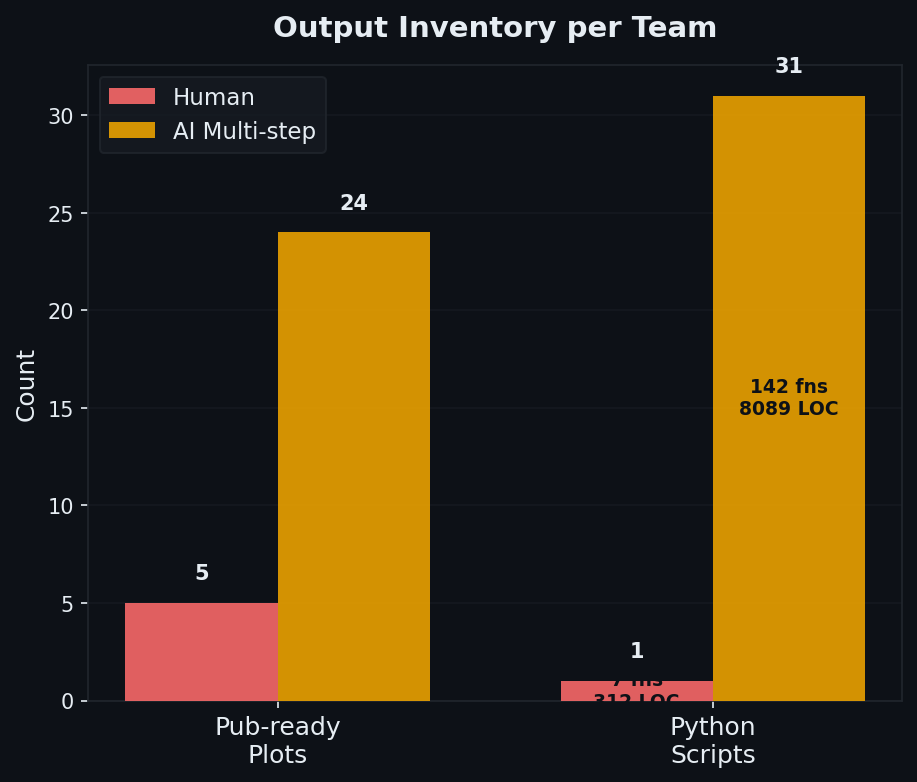
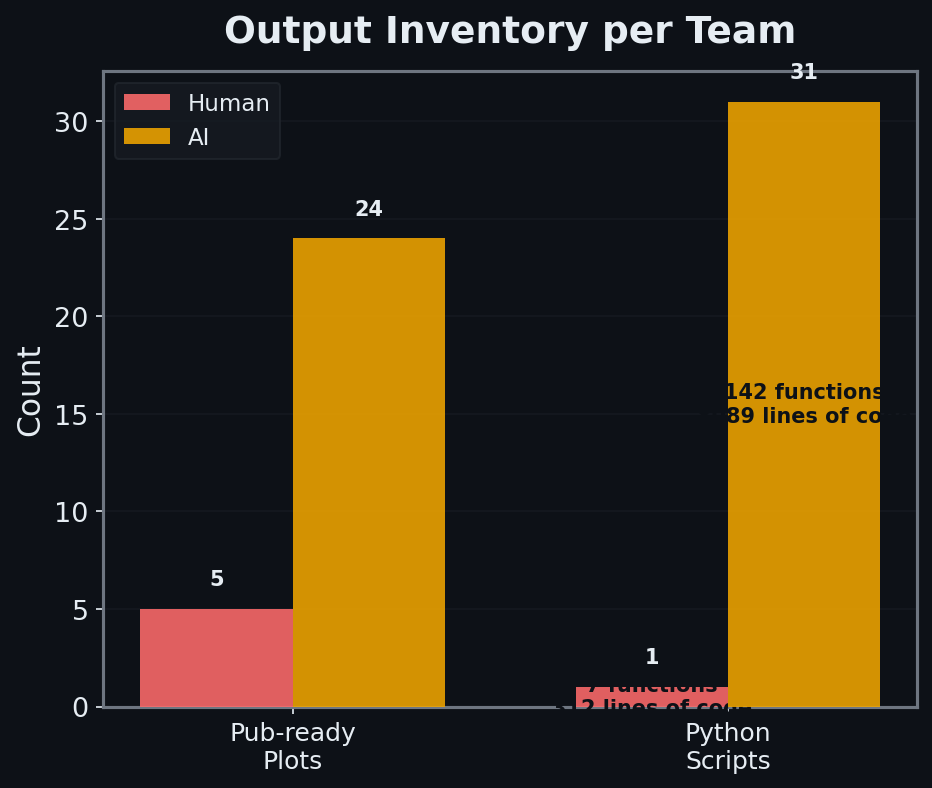
update

Changed region(s): [[0.0, 0.0, 0.9771, 0.9821], [0.8244, 0.0921, 1.0, 0.9207], [0.2137, 0.7059, 0.2443, 0.7673]]

diff --git a/comparison/compare copy.py b/comparison/compare copy.py
@@ -63,7 +63,7 @@ COLORS = {
 SHORT = {
     "Human":           "Human",
     "AI\nSingle-step": "AI Single-step",
-    "AI\nMulti-step":  "AI",
+    "AI\nMulti-step":  "AI Multi-step",
 }
 
 # ── Style ──────────────────────────────────────────────────────────────────────
@@ -75,8 +75,7 @@ MUTED = "#8B949E"
 plt.rcParams.update({
     "figure.facecolor": BG,
     "axes.facecolor":   BG,
-    "axes.edgecolor":   "#6E7681",
-    "axes.linewidth":   1.5,
+    "axes.edgecolor":   GRID,
     "axes.labelcolor":  TXT,
     "xtick.color":      TXT,
     "ytick.color":      TXT,
@@ -86,13 +85,12 @@ plt.rcParams.update({
     "legend.facecolor": "#161B22",
     "legend.edgecolor": GRID,
     "font.family":      "DejaVu Sans",
-    "font.size":        14,
-    "axes.titlesize":   18,
-    "axes.labelsize":   15,
+    "font.size":        11,
+    "axes.titlesize":   14,
+    "axes.labelsize":   12,
     "axes.titleweight": "bold",
-    "xtick.labelsize":  13,
-    "ytick.labelsize":  13,
-    "legend.fontsize":  13,
+    "xtick.labelsize":  10,
+    "ytick.labelsize":  10,
 })
 
 
@@ -219,31 +217,16 @@ MULTISTEP_KEY = "AI\nMulti-step"
 def collect_phase_data(multistep_dir: Path) -> dict:
     """Per-phase LOC and pub-ready plot counts for the multi-step team."""
     result = {}
-    phase_matched: set[Path] = set()
-
     for phase, scripts in PHASE_SCRIPTS.items():
         loc = sum(count_loc(multistep_dir / s)
                   for s in scripts if (multistep_dir / s).exists())
         phase_pngs = list(multistep_dir.glob(f"phase{phase}_*.png"))
         pub   = sum(1 for f in phase_pngs if classify_png(f.name) == "pub")
-        phase_matched.update(phase_pngs)
         result[phase] = {
             "loc":        loc,
             "pub_plots":  pub,
             "total_plots": len(phase_pngs),
         }
-
-    # Pick up pub-ready PNGs not matched by any phase{N}_*.png pattern
-    # (e.g. halo_viz subdirectory) and attribute to the last phase.
-    orphan_pngs = [f for f in multistep_dir.rglob("*.png")
-                   if f not in phase_matched]
-    orphan_pub   = sum(1 for f in orphan_pngs if classify_png(f.name) == "pub")
-    orphan_total = len(orphan_pngs)
-    if orphan_pub or orphan_total:
-        last = max(result)
-        result[last]["pub_plots"]   += orphan_pub
-        result[last]["total_plots"] += orphan_total
-
     return result
 
 
@@ -549,9 +532,9 @@ def fig_inventory(metrics: dict):
             ax.text(
                 x[1] + offsets[i],
                 vals[1] / 2,
-                f"{fn} functions\n{loc} lines of code",
+                f"{fn} fns\n{loc} LOC",
                 ha="center", va="center",
-                fontsize=10, color=BG, fontweight="bold",
+                fontsize=9, color=BG, fontweight="bold",
             )
 
     ax.set_xticks(x)
@@ -655,141 +638,80 @@ def fig_scope():
 
 def fig_code(metrics: dict, phase_data: dict):
     """
-    Top-left  (50% wide, 75% tall): inventory grouped bar — pub-ready plots and
-              Python scripts per active team, with a caption table underneath.
-    Top-right (50% wide, 75% tall): multi-step follow-up query convergence.
-    Bottom strip (25% tall): table on the left, disclaimer on the right —
-              both within the canvas so bbox_inches='tight' doesn't inflate size.
+    Left:  LOC + function count bar per active team.
+    Right: multi-step phase-by-phase convergence (only when multi-step is active).
     """
     has_multistep = MULTISTEP_KEY in ACTIVE_TEAMS and phase_data
+    ncols = 2 if has_multistep else 1
+    fig, axes = plt.subplots(1, ncols, figsize=(7 * ncols, 5.5))
+    ax1 = axes[0] if ncols > 1 else axes
+    ax2 = axes[1] if ncols > 1 else None
 
-    # 35% bottom margin so x-tick labels clear the table below them.
-    BOT = 0.35
-    fig = plt.figure(figsize=(15.5, 6))
-    fig.subplots_adjust(left=0.07, right=0.95, top=0.93, bottom=BOT,
-                        wspace=0.42)
+    # --- LOC bar ---
+    n     = len(ACTIVE_TEAMS)
+    x     = np.arange(n)
+    locs  = [metrics[l]["total_loc"]  for l in ACTIVE_TEAMS]
+    funcs = [metrics[l]["functions"]  for l in ACTIVE_TEAMS]
+    bars  = ax1.bar(x, locs, color=active_colors(), alpha=0.88, width=0.5, zorder=3)
+    bar_label(ax1, bars, offset=20)
 
-    if has_multistep:
-        ax1 = fig.add_subplot(1, 2, 1)
-        ax2 = fig.add_subplot(1, 2, 2)
-        ax_tbl = fig.add_axes([0.07, 0.01, 0.43, BOT - 0.14])
-        ax_dis = fig.add_axes([0.53, 0.01, 0.42, BOT - 0.14])
-        for ax in (ax_tbl, ax_dis):
-            ax.axis("off")
-    else:
-        ax1    = fig.add_subplot(1, 1, 1)
-        ax2    = None
-        ax_tbl = fig.add_axes([0.07, 0.01, 0.43, BOT - 0.14])
-        ax_tbl.axis("off")
-        ax_dis = None
-
-    # ── Top-left: inventory bars ───────────────────────────────────────────────
-    categories = [
-        ("pub_plots", "Pub-ready Plots"),
-        ("py_files",  "Python Scripts"),
-    ]
-    n_cat   = len(categories)
-    n_team  = len(ACTIVE_TEAMS)
-    x       = np.arange(n_cat)
-    width   = min(0.35, 0.8 / n_team)
-    offsets = np.linspace(-(n_team - 1) / 2, (n_team - 1) / 2, n_team) * width
-
-    for i, (label, color) in enumerate(zip(ACTIVE_TEAMS, active_colors())):
-        vals  = [metrics[label][key] for key, _ in categories]
-        rects = ax1.bar(x + offsets[i], vals, width,
-                        label=SHORT[label], color=color, alpha=0.88, zorder=3)
-        bar_label(ax1, rects, offset=1, fontsize=12)
+    for xi, (loc, fn, label) in enumerate(zip(locs, funcs, ACTIVE_TEAMS)):
+        if loc > 0:
+            ax1.text(xi, loc / 2, f"{fn} fns",
+                     ha="center", va="center",
+                     fontsize=11, color=BG, fontweight="bold")
+        else:
+            ax1.text(xi, 30, "no saved\nscripts",
+                     ha="center", va="bottom",
+                     fontsize=9, color=MUTED, style="italic")
 
     ax1.set_xticks(x)
-    ax1.set_xticklabels([name for _, name in categories], fontsize=14)
-    ax1.set_ylabel("Count", fontsize=15)
-    ax1.set_title("Output Inventory per Team", pad=14, fontsize=18)
+    ax1.set_xticklabels(active_short(), fontsize=11)
+    ax1.set_ylabel("Lines of Code (non-blank, non-comment)")
+    ax1.set_title("Codebase Size", pad=12)
     ax1.yaxis.grid(True, zorder=0)
     ax1.set_axisbelow(True)
-    ax1.legend(fontsize=13)
-
-    # ── Bottom-left: caption table ─────────────────────────────────────────────
-    tbl_rows = [[SHORT[l],
-                 str(metrics[l]["functions"]),
-                 str(metrics[l]["total_loc"])]
-                for l in ACTIVE_TEAMS]
-    tbl_cols = ["Team", "Functions", "Lines of code"]
-    tbl = ax_tbl.table(
-        cellText=tbl_rows,
-        colLabels=tbl_cols,
-        cellLoc="center",
-        loc="center",
-        bbox=[0.05, 0.2, 0.8, 0.8],
-    )
-    tbl.auto_set_font_size(False)
-    tbl.set_fontsize(12)
-    tbl.scale(1, 0.6)
-    tbl.auto_set_column_width([0, 1, 2])
-    for (r, c), cell in tbl.get_celld().items():
-        cell.set_edgecolor(GRID)
-        if r == 0:
-            cell.set_facecolor("#21262D")
-            cell.set_text_props(color=TXT, fontweight="bold")
-        else:
-            team_key = ACTIVE_TEAMS[r - 1]
-            cell.set_facecolor(COLORS[team_key] if c == 0 else "#161B22")
-            cell.set_text_props(
-                color=BG if c == 0 else TXT,
-                fontweight="bold" if c == 0 else "normal",
-            )
+    ax1.annotate("Number inside bar = defined functions",
+                 xy=(0.02, -0.1), xycoords="axes fraction",
+                 fontsize=8, color=MUTED)
 
     if not has_multistep or ax2 is None:
+        fig.tight_layout()
         savefig(fig, "fig4_code.png")
         return
 
-    # ── Top-right: follow-up query convergence ─────────────────────────────────
-    phases        = sorted(phase_data.keys())
-    cum_loc       = list(np.cumsum([phase_data[p]["loc"]      for p in phases]))
-    cum_pub       = list(np.cumsum([phase_data[p]["pub_plots"] for p in phases]))
+    # --- Phase convergence (right panel) ---
+    phases  = sorted(phase_data.keys())
+    cum_loc = list(np.cumsum([phase_data[p]["loc"]      for p in phases]))
+    cum_pub = list(np.cumsum([phase_data[p]["pub_plots"] for p in phases]))
     phase_loc_per = [phase_data[p]["loc"] for p in phases]
-    query_labels  = [f"Q{p}" for p in phases]
 
     color_ms = COLORS[MULTISTEP_KEY]
 
     ax2b = ax2.twinx()
-    ax2.bar(phases, phase_loc_per, color=color_ms, alpha=0.30,
-            label="Lines of code per query")
-    ax2.plot(phases, cum_loc, "o-", color=color_ms, lw=2.5, ms=8,
-             label="Cumulative lines of code")
-    ax2.set_ylabel("Lines of Code", color=color_ms, fontsize=15)
-    ax2.tick_params(axis="y", colors=color_ms, labelsize=13)
+    ax2.bar(phases, phase_loc_per, color=color_ms, alpha=0.30, label="Phase LOC")
+    ax2.plot(phases, cum_loc, "o-", color=color_ms, lw=2, ms=7,
+             label="Cumulative LOC")
+    ax2.set_ylabel("Lines of Code", color=color_ms)
+    ax2.tick_params(axis="y", colors=color_ms)
 
-    ax2b.plot(phases, cum_pub, "s--", color="#98FF98", lw=2.5, ms=8,
-              label="Cumulative pub-ready plots")
-    ax2b.set_ylabel("Cumulative pub-ready plots", color="#98FF98", fontsize=15)
-    ax2b.tick_params(axis="y", colors="#98FF98", labelsize=13)
+    ax2b.plot(phases, cum_pub, "s--", color="#98FF98", lw=2, ms=7,
+              label="Cumul. pub-ready plots")
+    ax2b.set_ylabel("Cumulative pub-ready plots", color="#98FF98")
+    ax2b.tick_params(axis="y", colors="#98FF98")
 
     ax2.set_xticks(phases)
-    ax2.set_xticklabels(query_labels, fontsize=14)
-    ax2.set_xlabel("Follow-up query", fontsize=15)
-    ax2.set_title("Output with follow-up queries", pad=14, fontsize=18)
+    ax2.set_xticklabels([f"Ph {p}" for p in phases], fontsize=9)
+    ax2.set_xlabel("Phase")
+    ax2.set_title("Multi-step: Phase Convergence", pad=12)
     ax2.yaxis.grid(True, zorder=0)
     ax2.set_axisbelow(True)
 
     lines1, labs1 = ax2.get_legend_handles_labels()
     lines2, labs2 = ax2b.get_legend_handles_labels()
-    ax2.legend(lines1 + lines2, labs1 + labs2, loc="upper left", fontsize=13)
+    ax2.legend(lines1 + lines2, labs1 + labs2, loc="upper left", fontsize=9)
 
-    # ── Bottom-right: disclaimer ───────────────────────────────────────────────
-    disclaimer = (
-        "* Two independent, single-trial explorations of the same scientific\n"
-        "  question — but with fundamentally different approaches.\n"
-        "  Not a task-for-task comparison."
-    )
-    ax_dis.text(
-        0.97, 0.35, disclaimer,
-        transform=ax_dis.transAxes,
-        ha="right", va="center",
-        fontsize=12, color=MUTED, style="italic",
-        bbox=dict(boxstyle="round,pad=0.5", facecolor="#161B22",
-                  edgecolor=GRID, alpha=0.85),
-    )
-
+    fig.tight_layout()
     savefig(fig, "fig4_code.png")
 
 
@@ -870,7 +792,7 @@ def fig_docs(metrics: dict):
 def fig_scoreboard(metrics: dict, code_quality: dict):
     """Pitch-deck summary table with all key metrics."""
     col_labels = [
-        "Scripts", "Pub-ready\nPlots", "Lines of\nCode",
+        "Scripts", "Pub-ready\nPlots", "LOC",
         "Scope\nCoverage", "Repro-\nducibility", "Novelty",
         "Readability\n(auto)", "Portability\n(auto)", "Robustness\n(auto)",
     ]
@@ -947,7 +869,7 @@ def fig_code_quality(code_quality: dict, metrics: dict):
     angles = np.linspace(0, 2 * np.pi, len(dims), endpoint=False).tolist()
     angles += angles[:1]
 
-    fig = plt.figure(figsize=(16.2, 7.2))
+    fig = plt.figure(figsize=(14, 6))
     ax_radar = fig.add_subplot(121, polar=True)
     ax_bar   = fig.add_subplot(122)
 
@@ -1005,25 +927,11 @@ def fig_code_quality(code_quality: dict, metrics: dict):
     ax_bar.legend(fontsize=10)
     ax_bar.annotate(
         "Lower hardcoded paths = more portable   |   Higher comment/docstring = more readable",
-        xy=(0.5, -0.15), xycoords="axes fraction",
+        xy=(0.5, -0.13), xycoords="axes fraction",
         ha="center", fontsize=8, color=MUTED,
     )
 
     fig.tight_layout(pad=2.0)
-    fig.subplots_adjust(bottom=0.22)  # carve out bottom strip for disclaimer
-
-    fig.text(
-        0.34, 0.15,
-        "* Two independent, single-trial explorations\n"
-        "  of the same scientific question — but with\n"
-        "  fundamentally different approaches.\n"
-        "  Not a task-for-task comparison.",
-        ha="left", va="bottom",
-        fontsize=12, color=MUTED, style="italic",
-        bbox=dict(boxstyle="round,pad=0.4", facecolor="#161B22",
-                  edgecolor=GRID, alpha=0.85),
-    )
-
     savefig(fig, "fig8_code_quality.png")
 
 
